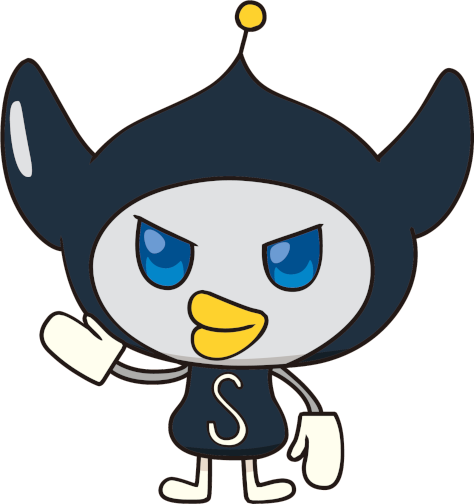
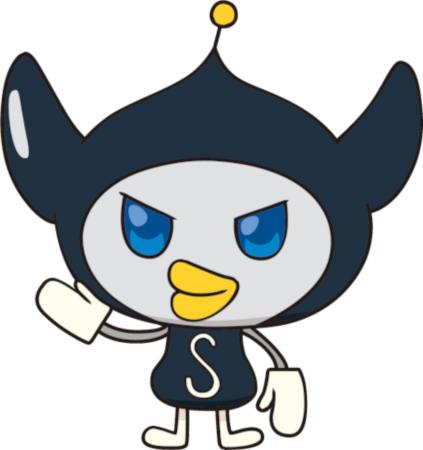
adj. carousel &  imgs for mobile responsiveness

diff --git a/public/styles/styles.css b/public/styles/styles.css
@@ -18,7 +18,8 @@ body {
   background: linear-gradient(to bottom, #6e529d 0%, #d97b93 100%) fixed;
 }
 
-.home {
+#home,
+#index-home {
   clear: both;
 }
 
@@ -83,8 +84,8 @@ h5 {
 
 .d-block {
   margin: 0 auto;
-  width: 25%;
-  height: auto;
+  width: auto;
+  height: 30%;
 }
 
 label {
@@ -112,7 +113,8 @@ label {
 
 .dropdown-toggle,
 .body-buttons,
-.btn-info {
+.btn-info,
+.btn {
   background-color: rgb(9, 9, 160);
   border-color: white;
   color: white;
@@ -120,7 +122,8 @@ label {
 
 .dropdown-toggle:hover,
 .body-buttons:hover,
-.btn-info:hover {
+.btn-info:hover,
+.btn:hover {
   background-color: rgb(170, 16, 62);
   border-color: white;
   color: white;
@@ -175,12 +178,13 @@ label {
   }
 
   .d-block {
-    margin: 0 auto;
-    width: 50%;
-    height: auto;
+    /* margin: 0 auto; */
+    width: auto;
+    height: 200px;
   }
 
   h3 {
     margin: 0 15px;
+    font-size: 20px;
   }
 }
